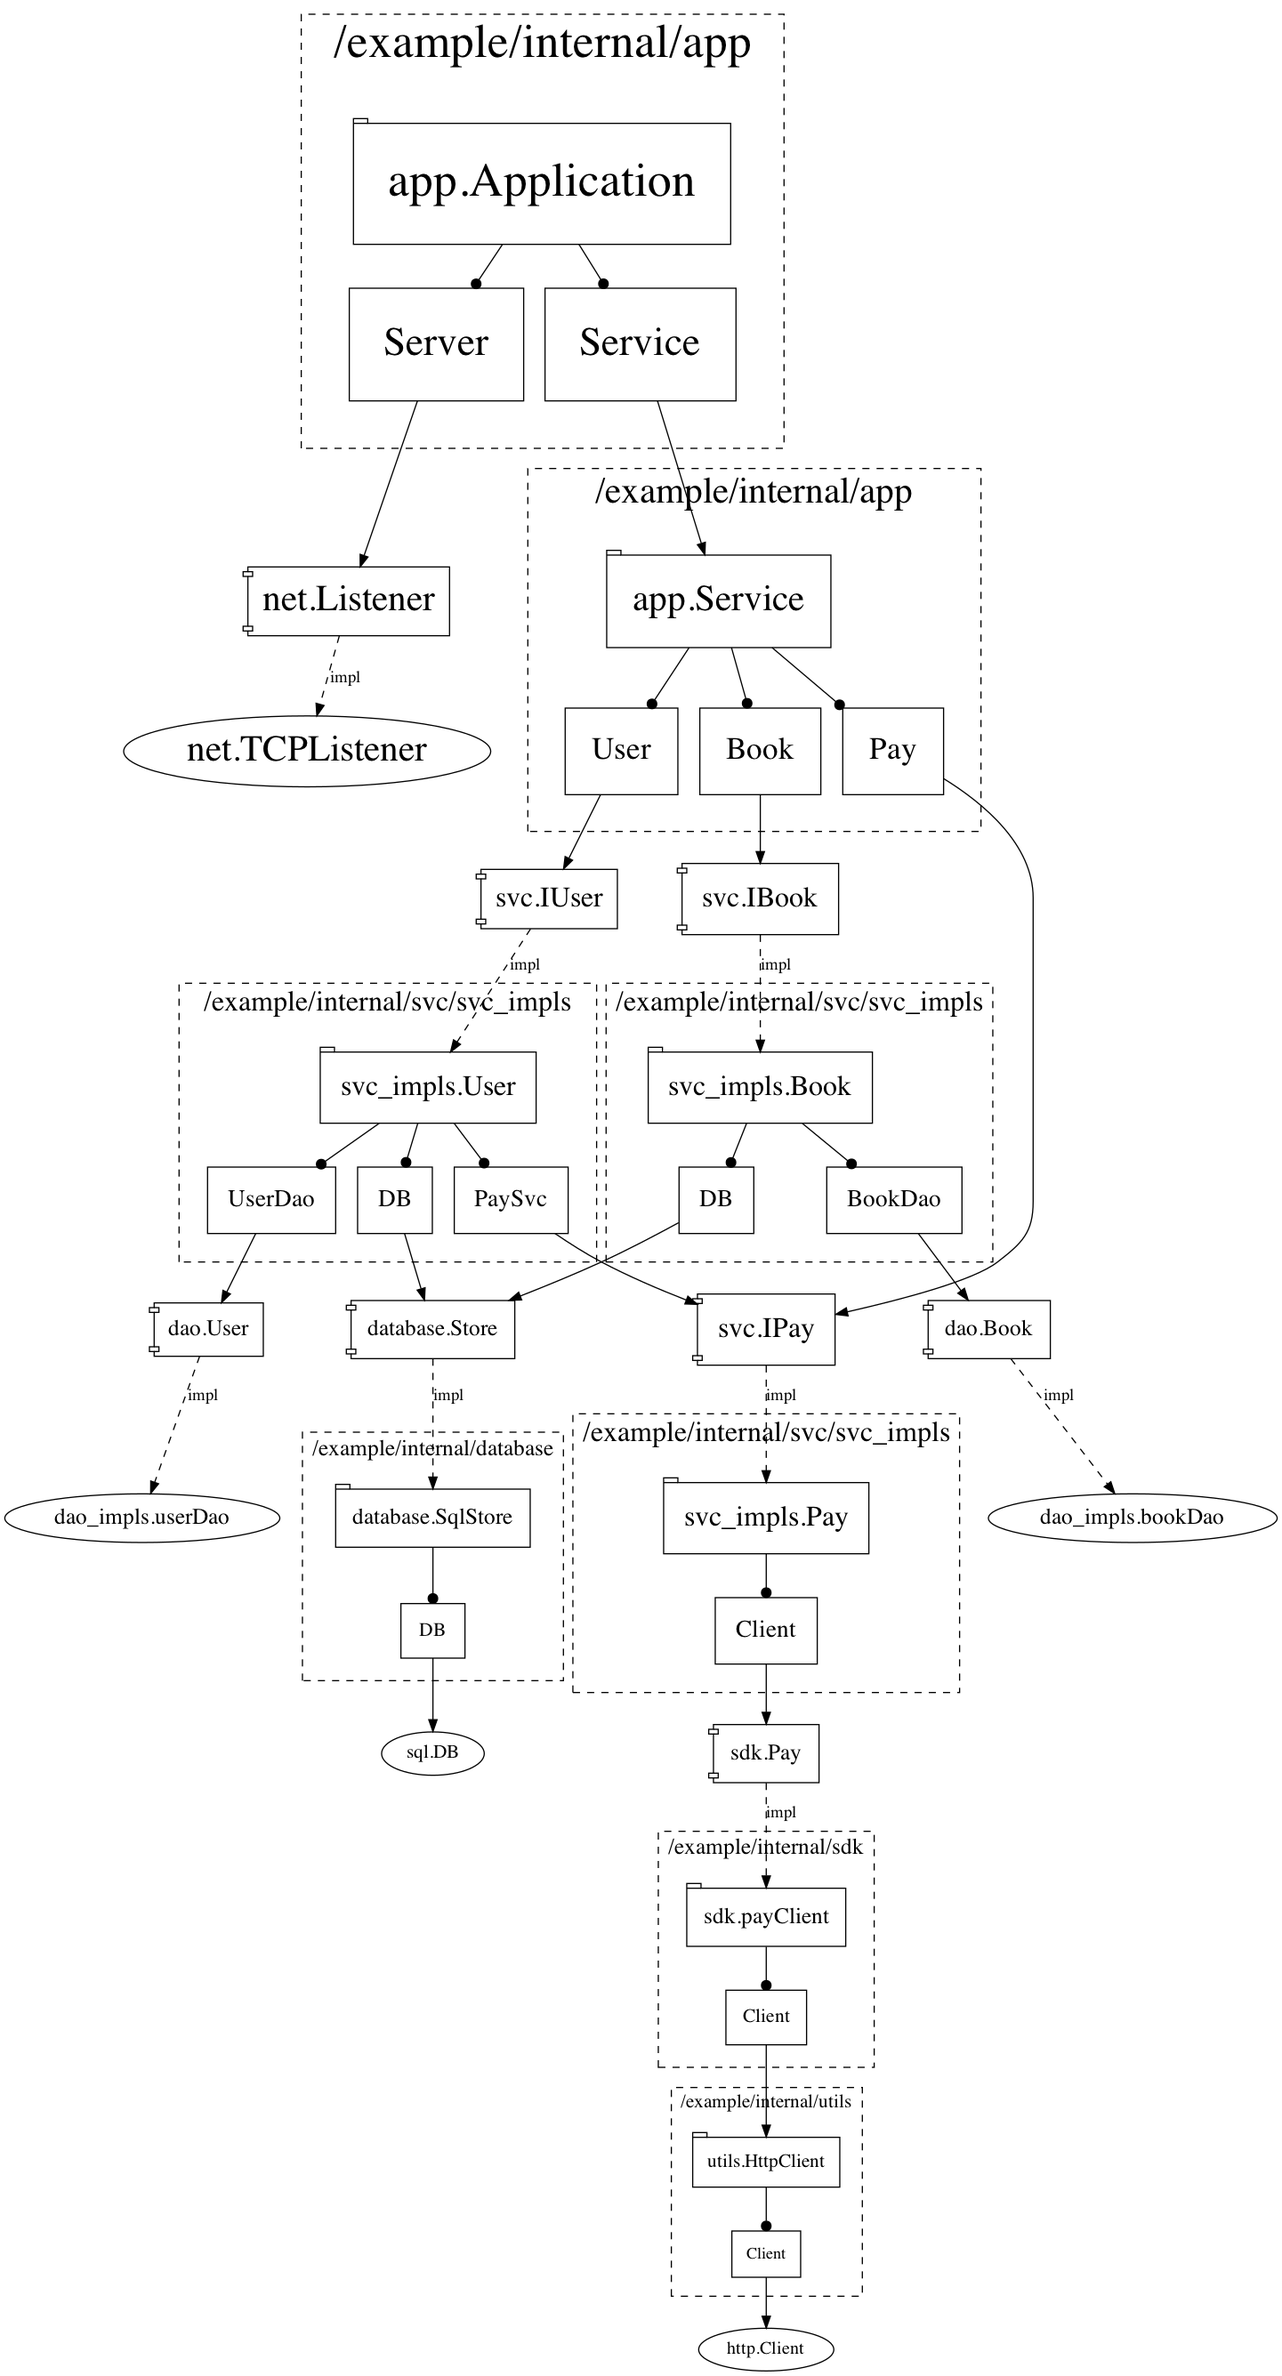
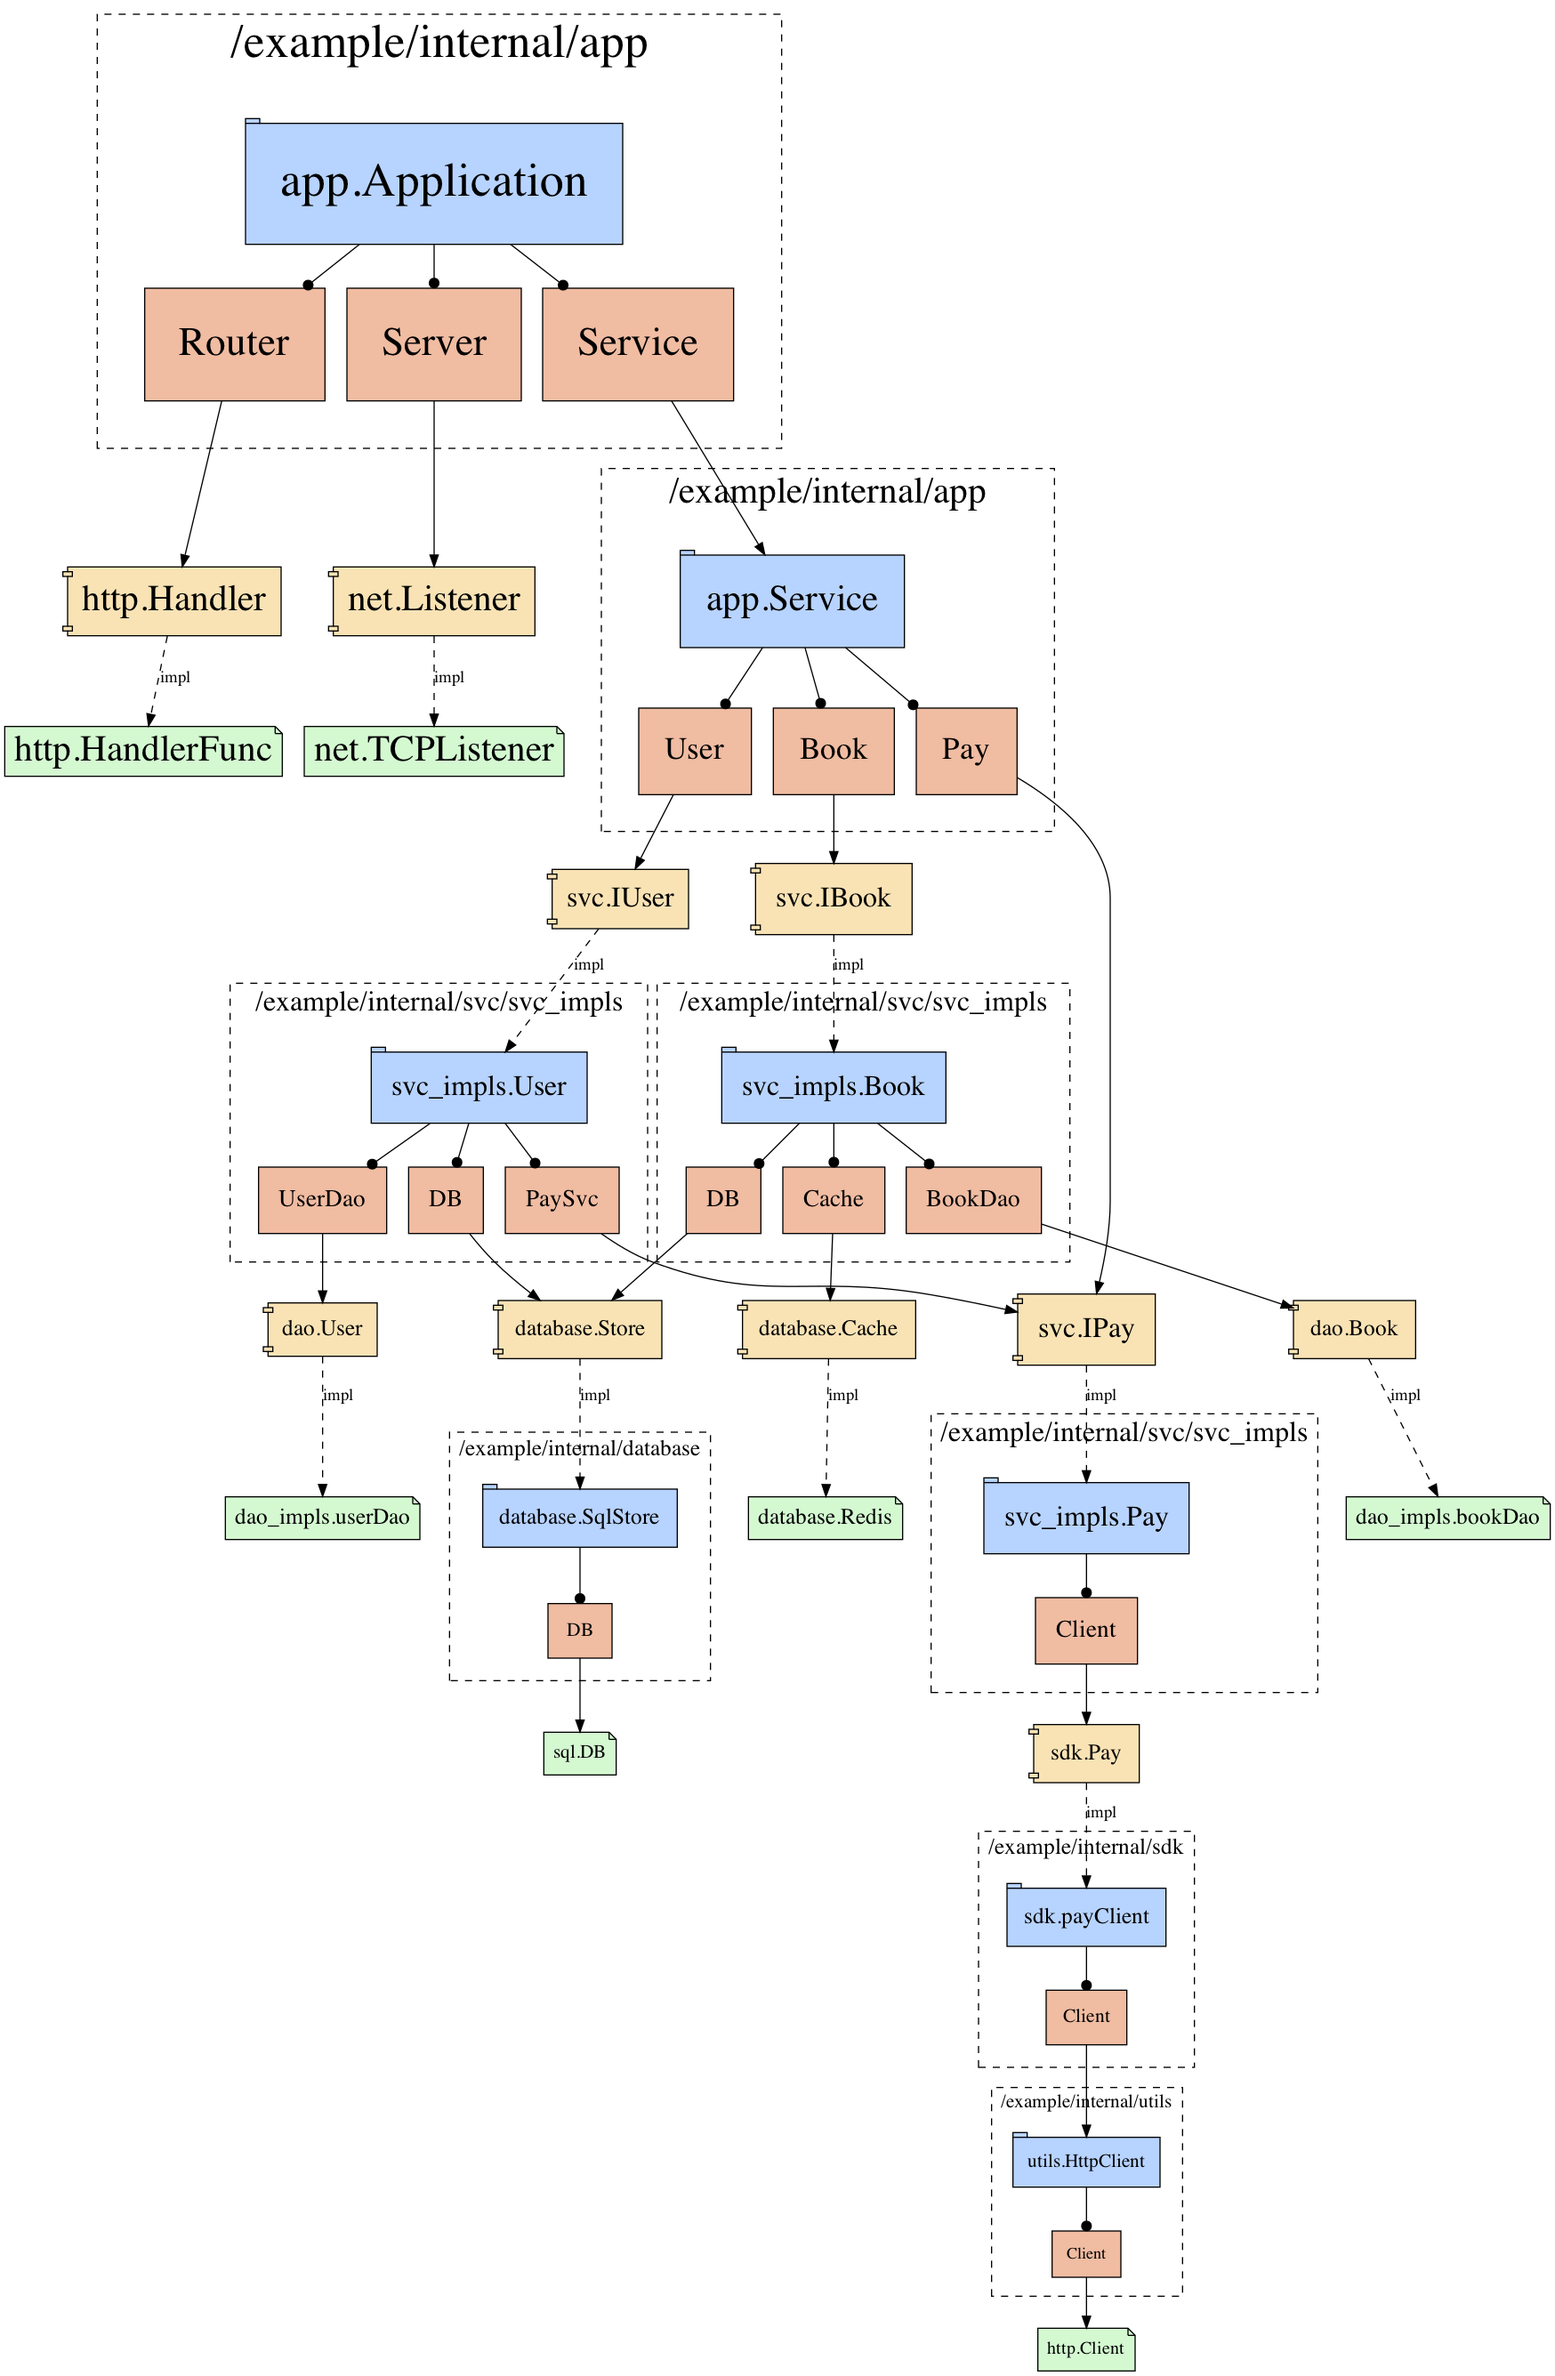
ompt output

Changed region(s): [[0.0, 0.0, 0.7807, 1.0], [0.8119, 0.5283, 0.9993, 0.6526]]

diff --git a/struct.go b/struct.go
@@ -15,6 +15,7 @@ type (
 	Option func(d *drawer)
 
 	drawer struct {
+		main          string
 		graph         *gographviz.Graph
 		scopes        []string
 		depth         int
@@ -32,11 +33,15 @@ func GenPuml(app interface{}, opts ...Option) (err error) {
 }
 
 func Draw(in interface{}, opts ...Option) string {
-	graphAst, _ := gographviz.ParseString(`digraph G {}`)
+	v := reflect.ValueOf(in)
+	for v.Kind() == reflect.Ptr || v.Kind() == reflect.Interface {
+		v = v.Elem()
+	}
+	main := v.Type().Name()
+	graphAst, _ := gographviz.ParseString(fmt.Sprintf(`digraph %s {}`, main))
 	graph := gographviz.NewGraph()
 	_ = gographviz.Analyse(graphAst, graph)
-	v := reflect.ValueOf(in)
-	dw := &drawer{graph: graph, edgeStore: map[string]bool{}}
+	dw := &drawer{graph: graph, edgeStore: map[string]bool{}, main: main}
 	b, _ := getModBase()
 	if len(b) > 0 {
 		dw.scopes = append(dw.scopes, b)
@@ -56,16 +61,20 @@ func (d *drawer) addField(structName string, fieldName string, level int) {
 		size := d.getSize(level)
 		d.addPNode(fmt.Sprintf(`"cluster_%s"`, structName), structName,
 			map[string]string{
-				"fontsize": fmt.Sprintf("%v", size),
-				"margin":   fmt.Sprintf("%v", size*0.01),
-				"shape":    "tab",
+				"fontsize":  fmt.Sprintf("%v", size),
+				"margin":    fmt.Sprintf("%v", size*0.01),
+				"shape":     "tab",
+				"style":     `"filled"`,
+				"fillcolor": `"#b7d3ff"`,
 			})
 		d.addPNode(fmt.Sprintf(`"cluster_%s"`, structName), structName+":"+fieldName,
 			map[string]string{
-				"label":    fieldName,
-				"shape":    "box",
-				"fontsize": fmt.Sprintf("%v", size*0.85),
-				"margin":   fmt.Sprintf("%v", size*0.01),
+				"label":     fieldName,
+				"shape":     "box",
+				"style":     `"filled"`,
+				"fillcolor": `"#f0bca2"`,
+				"fontsize":  fmt.Sprintf("%v", size*0.85),
+				"margin":    fmt.Sprintf("%v", size*0.01),
 			})
 	})
 	d.addEdge(structName, structName+":"+fieldName, map[string]string{"arrowhead": "dot"})
@@ -82,9 +91,11 @@ func (d *drawer) addImpl(itf reflect.Type, implType string, level int) {
 		}
 	}
 	d.addNode(itf.String(), map[string]string{
-		"shape":  "component",
-		"margin": fmt.Sprintf("%v", size*0.01),
-		"label":  fmt.Sprintf(`"%s"`, label)}, level)
+		"shape":     "component",
+		"style":     `"filled"`,
+		"fillcolor": `"#f9e3b5"`,
+		"margin":    fmt.Sprintf("%v", size*0.01),
+		"label":     fmt.Sprintf(`"%s"`, label)}, level)
 	d.addNode(implType, nil, level)
 	d.addEdge(itf.String(), implType, map[string]string{"label": "impl", "style": "dashed"})
 }
@@ -102,10 +113,14 @@ func (d *drawer) addEdge(from string, to string, attrs map[string]string) {
 func (d *drawer) addNode(nodeName string, attrs map[string]string, level int) {
 	d.fn = append(d.fn, func() {
 		if attrs == nil {
-			attrs = map[string]string{}
+			attrs = map[string]string{
+				"shape":     "note",
+				"style":     `"filled"`,
+				"fillcolor": `"#d4f9d1"`,
+			}
 		}
 		attrs["fontsize"] = fmt.Sprintf("%v", d.getSize(level))
-		d.addPNode("G", nodeName, attrs)
+		d.addPNode(d.main, nodeName, attrs)
 	})
 }
 
@@ -124,7 +139,7 @@ func (d *drawer) addSubGraph(nodeName, pkg string, level int) {
 			pkg = strings.Replace(pkg, d.scopes[0], "", -1)
 		}
 		size := d.getSize(level)
-		_ = d.graph.AddSubGraph("G",
+		_ = d.graph.AddSubGraph(d.main,
 			fmt.Sprintf(`"cluster_%s"`, nodeName),
 			map[string]string{
 				"label":    fmt.Sprintf(`"%s"`, pkg),

diff --git a/example/struct_test.go b/example/struct_test.go
@@ -6,6 +6,7 @@ import (
 	"fmt"
 	"io/ioutil"
 	"net"
+	"net/http"
 	"os/exec"
 	"testing"
 
@@ -15,22 +16,19 @@ import (
 	"github.com/Just-maple/structgraph/example/internal/database"
 	"github.com/Just-maple/structgraph/example/internal/sdk"
 	"github.com/Just-maple/structgraph/example/internal/svc/svc_impls"
-	_ "github.com/go-sql-driver/mysql"
 )
 
-func MakeApplication() app.Application {
+func MakeApplication() *app.Application {
 	listener, err := net.Listen("tcp", ":8080")
 	if err != nil {
 		panic(err)
 	}
-	src := fmt.Sprintf("%s:%s@tcp(%s:%d)/%s", "root", "Aa123456", "0.0.0.0", 3306, "mysql")
-	sqlDB, err := sql.Open("mysql", src)
-	if err != nil {
-		panic(err)
-	}
-	db := &database.SqlStore{DB: sqlDB}
+	cache := &database.Redis{}
+	db := &database.SqlStore{DB: &sql.DB{}}
 	pay := &svc_impls.Pay{Client: sdk.NewPayClient()}
-	a := app.Application{
+	handler := http.HandlerFunc(func(writer http.ResponseWriter, request *http.Request) {})
+	a := &app.Application{
+		Router: handler,
 		Server: listener,
 		Service: app.Service{
 			User: &svc_impls.User{
@@ -41,6 +39,7 @@ func MakeApplication() app.Application {
 			Book: &svc_impls.Book{
 				BookDao: dao_impls.NewBookDao(),
 				DB:      db,
+				Cache:   cache,
 			},
 			Pay: pay,
 		},

diff --git a/example/internal/database/store.go b/example/internal/database/store.go
@@ -1,6 +1,8 @@
 package database
 
-import "database/sql"
+import (
+	"database/sql"
+)
 
 type SqlStore struct {
 	DB *sql.DB
@@ -14,4 +16,21 @@ type Store interface {
 	GetDB() *sql.DB
 }
 
+type Cache interface {
+	Get(key string) (interface{}, error)
+	Set(key string, value interface{}) error
+}
+
+type Redis struct {
+}
+
+func (r Redis) Get(key string) (interface{}, error) {
+	panic("implement me")
+}
+
+func (r Redis) Set(key string, value interface{}) error {
+	panic("implement me")
+}
+
+var _ Cache = &Redis{}
 var _ Store = &SqlStore{}

diff --git a/example/internal/app/app.go b/example/internal/app/app.go
@@ -2,11 +2,13 @@ package app
 
 import (
 	"net"
+	"net/http"
 
 	"github.com/Just-maple/structgraph/example/internal/svc"
 )
 
 type Application struct {
+	Router  http.Handler
 	Server  net.Listener
 	Service Service
 }

diff --git a/example/internal/svc/svc_impls/book.go b/example/internal/svc/svc_impls/book.go
@@ -8,6 +8,7 @@ import (
 
 type Book struct {
 	DB      database.Store
+	Cache   database.Cache
 	BookDao dao.Book
 }
 
